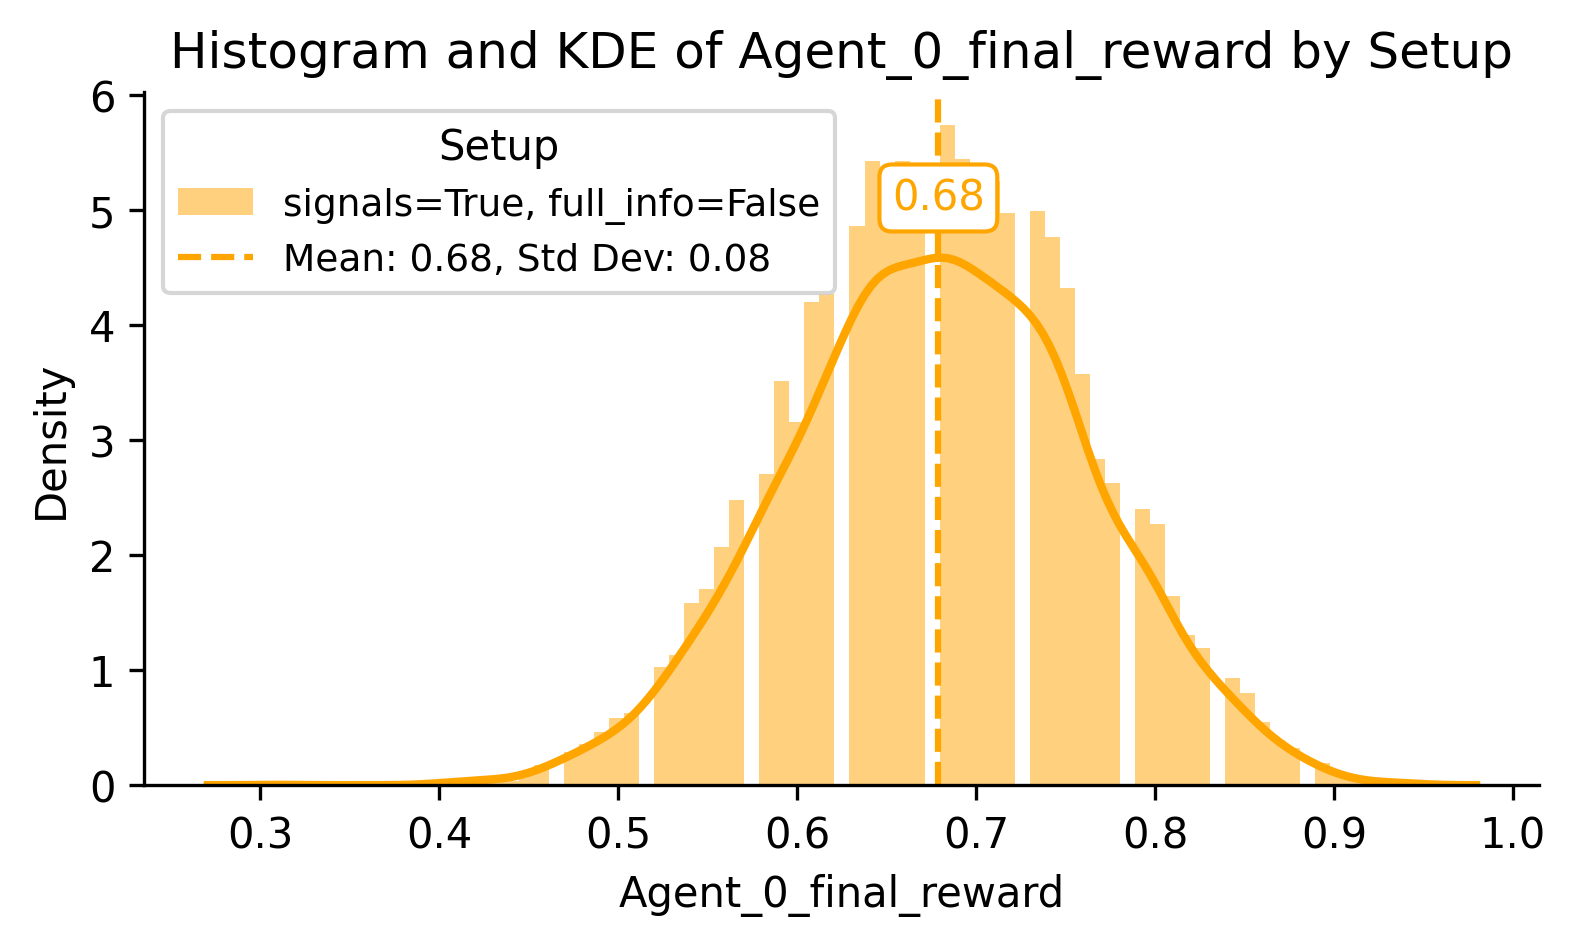
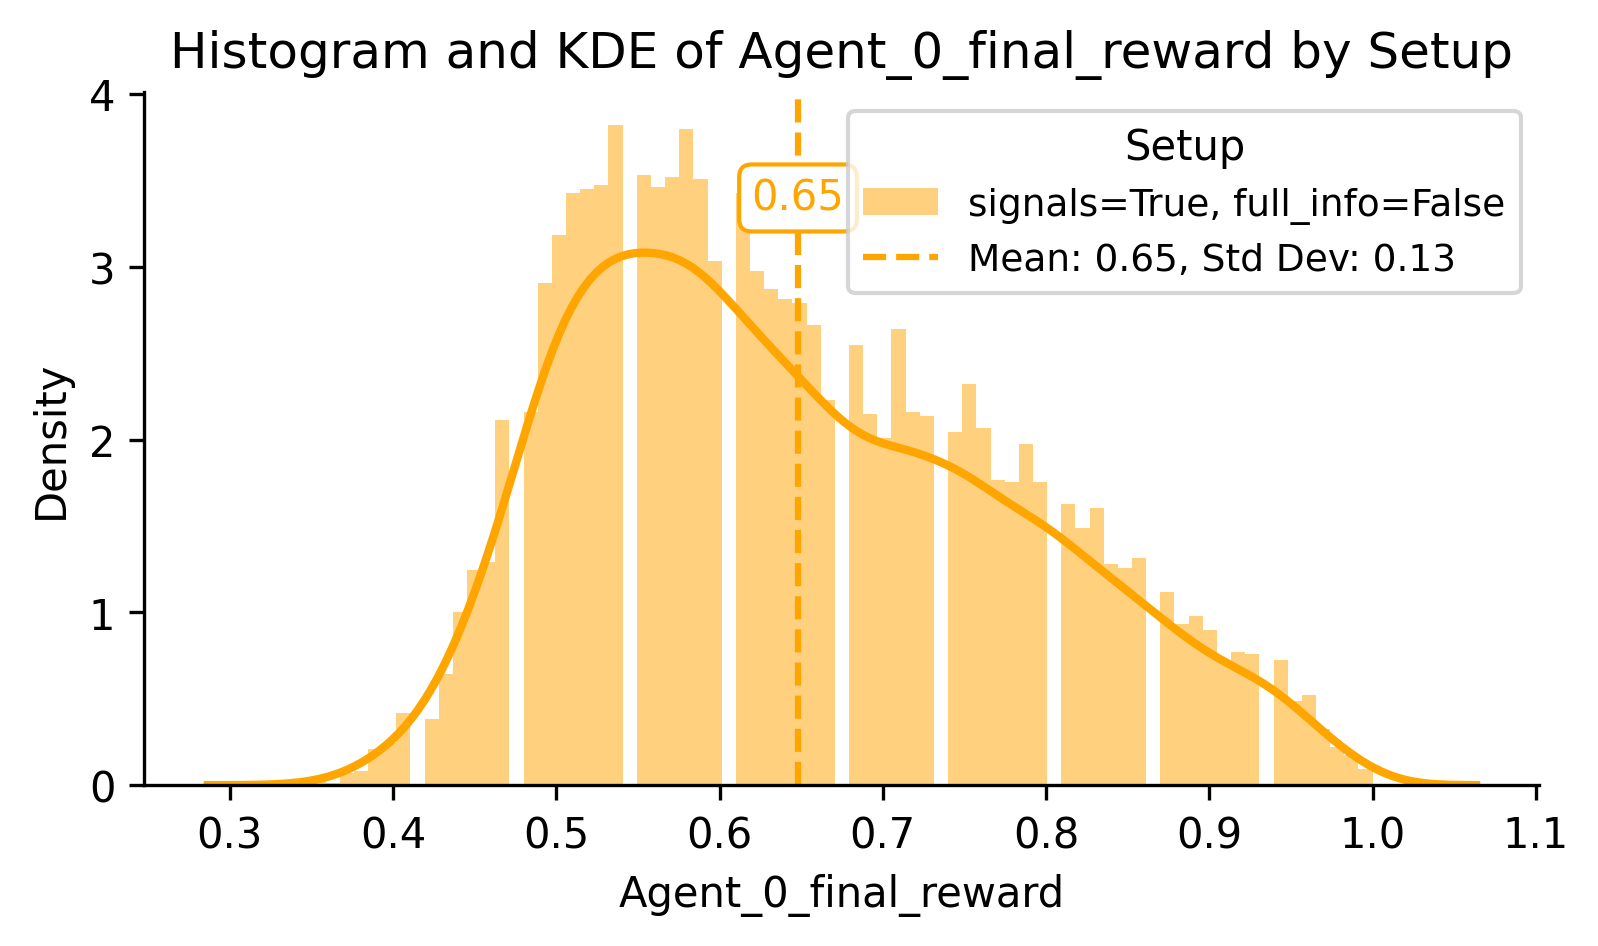
plotting edits

diff --git a/utils.py b/utils.py
@@ -244,17 +244,17 @@ def plot_basecase_kde(df, variable, file_path='dummy_plot.png',bins=100, figsize
     # Display the plot
     plt.show()
 
-def plot_all_histograms(df,bins=75):
-    plot_histograms_with_kde(df,'Agent_0_final_reward',bins=75)
-    plot_histograms_with_kde(df,'Agent_0_avg_reward',bins=75)
-    plot_histograms_with_kde(df,'Agent_1_final_reward',bins=75)
-    plot_histograms_with_kde(df,'Agent_1_avg_reward',bins=75)
-    plot_histograms_with_kde(df,'Agent_0_NMI',bins=75)
-    plot_histograms_with_kde(df,'Agent_1_NMI',bins=75)
+def plot_all_histograms(df,bins=75,variables = [(False, True), (True, False), (False, False),(True, True)]):
+    plot_histograms_with_kde(df,'Agent_0_final_reward',bins=75,variables=variables)
+    plot_histograms_with_kde(df,'Agent_0_avg_reward',bins=75,variables=variables)
+    plot_histograms_with_kde(df,'Agent_1_final_reward',bins=75,variables=variables)
+    plot_histograms_with_kde(df,'Agent_1_avg_reward',bins=75,variables=variables)
+    plot_histograms_with_kde(df,'Agent_0_NMI',bins=75,variables=variables)
+    plot_histograms_with_kde(df,'Agent_1_NMI',bins=75,variables=variables)
     df['Agent_0_NMI_Difference'] = df['Agent_0_NMI'] - df['Agent_0_Initial_NMI']
     df['Agent_1_NMI_Difference'] = df['Agent_1_NMI'] - df['Agent_1_Initial_NMI']
-    plot_histograms_with_kde(df,'Agent_0_NMI_Difference',bins=50, variables = [(True, True), (True, False)])
-    plot_histograms_with_kde(df,'Agent_1_NMI_Difference',bins=50, variables = [(True, True), (True, False)])
+    plot_histograms_with_kde(df,'Agent_0_NMI_Difference',bins=50, variables=variables)
+    plot_histograms_with_kde(df,'Agent_1_NMI_Difference',bins=50, variables = variables)
     
 # Helper function to calculate reward differences
 def calculate_reward_difference(df, agent_col):
